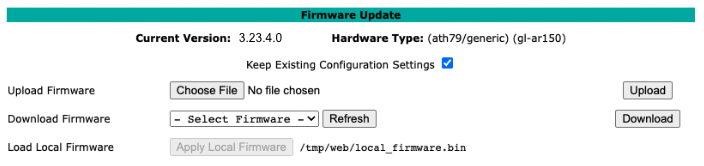
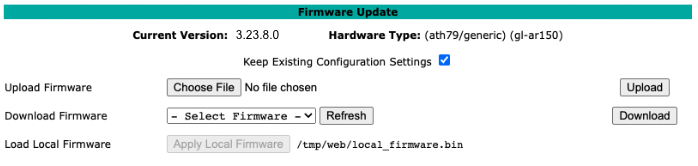
Prepare-3.23.8.0-pretag

diff --git a/conf.py b/conf.py
@@ -25,9 +25,9 @@ copyright = f'{date.today().year}, Amateur Radio Emergency Data Network, Inc. Li
 author = u'Amateur Radio Emergency Data Network, Inc.'
 
 # The short X.Y version
-version = u'latest'
+version = u'3.23.8.0'
 # The full version, including alpha/beta/rc tags
-release = u'Latest Nightly Build'
+release = u'3.23.8.0'
 
 # -- General configuration ---------------------------------------------------
 
